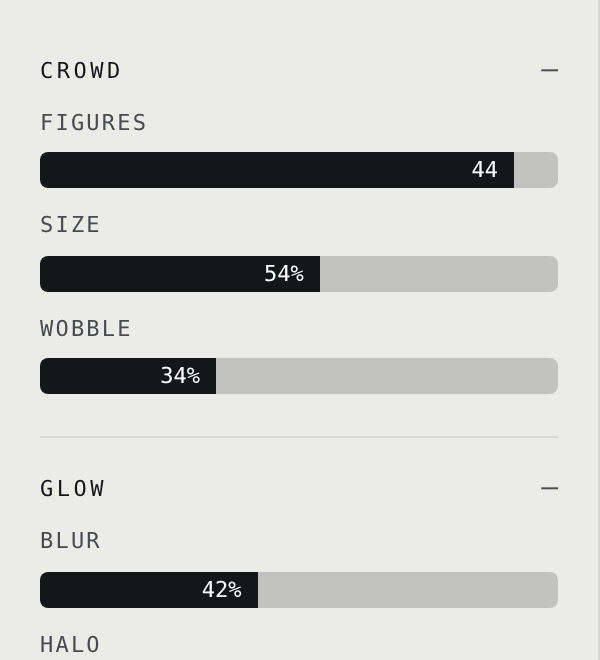
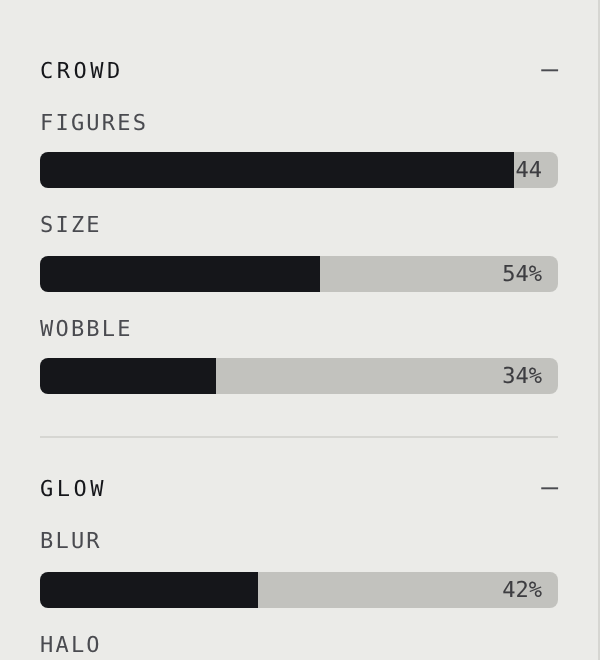
Slider 2: value fixed at the right end of the bar
Claude-Session: https://claude.ai/code/session_01Hb5jk9z6h4o1AzZNFzskh6

diff --git a/ui/sliders/index.html b/ui/sliders/index.html
@@ -19,5 +19,5 @@ h1{font-size:22px;font-weight:500;margin:0 0 8px}
 <body><div class="wrap">
 <h1>Slider designs</h1>
 <p class="lead">All five use the same page: option 1's single left rail with the Deck's top bar. Only the sliders differ. <a href="../" style="text-decoration:underline">Back to the layouts</a>.</p>
-<div class="opts"><a class="opt" href="1/"><img src="shots/1.png" alt=""><div class="t"><span class="num">1</span><span class="name">Line</span></div><p>A hairline made legible: 2px track, a small ring thumb, value at the right. The closest to today.</p></a><a class="opt" href="2/"><img src="shots/2.png" alt=""><div class="t"><span class="num">2</span><span class="name">Bar</span></div><p>No thumb. The filled bar is the handle, like a volume slider, and the value sits inside it at the right end.</p></a><a class="opt" href="3/"><img src="shots/3.png" alt=""><div class="t"><span class="num">3</span><span class="name">Notched</span></div><p>A ruler under the track, tick every ten percent, and a square thumb that reads like a fader cap.</p></a><a class="opt" href="4/"><img src="shots/4.png" alt=""><div class="t"><span class="num">4</span><span class="name">Stepper</span></div><p>Minus and plus at each end for one-step nudges, with a slim bar between for the big moves.</p></a><a class="opt" href="5/"><img src="shots/5.png" alt=""><div class="t"><span class="num">5</span><span class="name">Blocks</span></div><p>A meter of twenty blocks that fill as you drag, no thumb. Reads at a glance like a level on a mixing desk.</p></a></div>
+<div class="opts"><a class="opt" href="1/"><img src="shots/1.png" alt=""><div class="t"><span class="num">1</span><span class="name">Line</span></div><p>A hairline made legible: 2px track, a small ring thumb, value at the right. The closest to today.</p></a><a class="opt" href="2/"><img src="shots/2.png" alt=""><div class="t"><span class="num">2</span><span class="name">Bar</span></div><p>No thumb. The filled bar is the handle, like a volume slider, and the value sits inside it, fixed at the right end.</p></a><a class="opt" href="3/"><img src="shots/3.png" alt=""><div class="t"><span class="num">3</span><span class="name">Notched</span></div><p>A ruler under the track, tick every ten percent, and a square thumb that reads like a fader cap.</p></a><a class="opt" href="4/"><img src="shots/4.png" alt=""><div class="t"><span class="num">4</span><span class="name">Stepper</span></div><p>Minus and plus at each end for one-step nudges, with a slim bar between for the big moves.</p></a><a class="opt" href="5/"><img src="shots/5.png" alt=""><div class="t"><span class="num">5</span><span class="name">Blocks</span></div><p>A meter of twenty blocks that fill as you drag, no thumb. Reads at a glance like a level on a mixing desk.</p></a></div>
 </div></body></html>

diff --git a/ui/sliders/2/index.html b/ui/sliders/2/index.html
@@ -28,8 +28,7 @@ details:not([open]) summary::after{content:"+"}
 .dial input[type=range]::-moz-range-track,.dial input[type=range]::-moz-range-progress{height:18px;border-radius:4px}
 .dial input[type=range]::-webkit-slider-thumb{width:2px;height:18px;border:0;border-radius:0;background:transparent;margin-top:0;box-shadow:none}
 .dial input[type=range]::-moz-range-thumb{width:2px;height:18px;border:0;border-radius:0;background:transparent;box-shadow:none}
-.dial .val{position:absolute;top:50%;transform:translate(-100%,-50%);font-size:11px;line-height:1;pointer-events:none;color:#fff;white-space:nowrap;transition:none}
-.dial .val.out{transform:translate(0,-50%);color:var(--ink)}</style></head>
+.dial .val{position:absolute;right:8px;top:50%;transform:translateY(-50%);font-size:11px;line-height:1;pointer-events:none;color:#fff;mix-blend-mode:difference;white-space:nowrap;text-align:right}</style></head>
 <body>
 <div class="app">
 <header class="bar">
@@ -81,14 +80,5 @@ details:not([open]) summary::after{content:"+"}
 <main class="stage"><img class="art" src="../../art/crowd.jpg" alt=""></main>
 </div></div>
 <div class="proto-tag"><span>Slider 2 / 5 · Bar</span><a href="../">All five</a></div>
-<script src="../../base.js"></script><script>
-/* the value rides just inside the leading edge of the fill, and steps out in
-   front of it when the fill is too short to hold it */
-document.querySelectorAll(".dial .wrap").forEach(function(w){
-  var r=w.querySelector("input"),v=w.querySelector(".val");
-  function place(){ var p=(r.value-r.min)/(r.max-r.min); var W=w.clientWidth; var x=p*W; var need=v.offsetWidth+16;
-    if(x>=need){ v.classList.remove("out"); v.style.left=(x-8)+"px"; } else { v.classList.add("out"); v.style.left=(x+8)+"px"; } }
-  r.addEventListener("input",place); addEventListener("resize",place); place();
-});
-</script>
+<script src="../../base.js"></script>
 </body></html>
